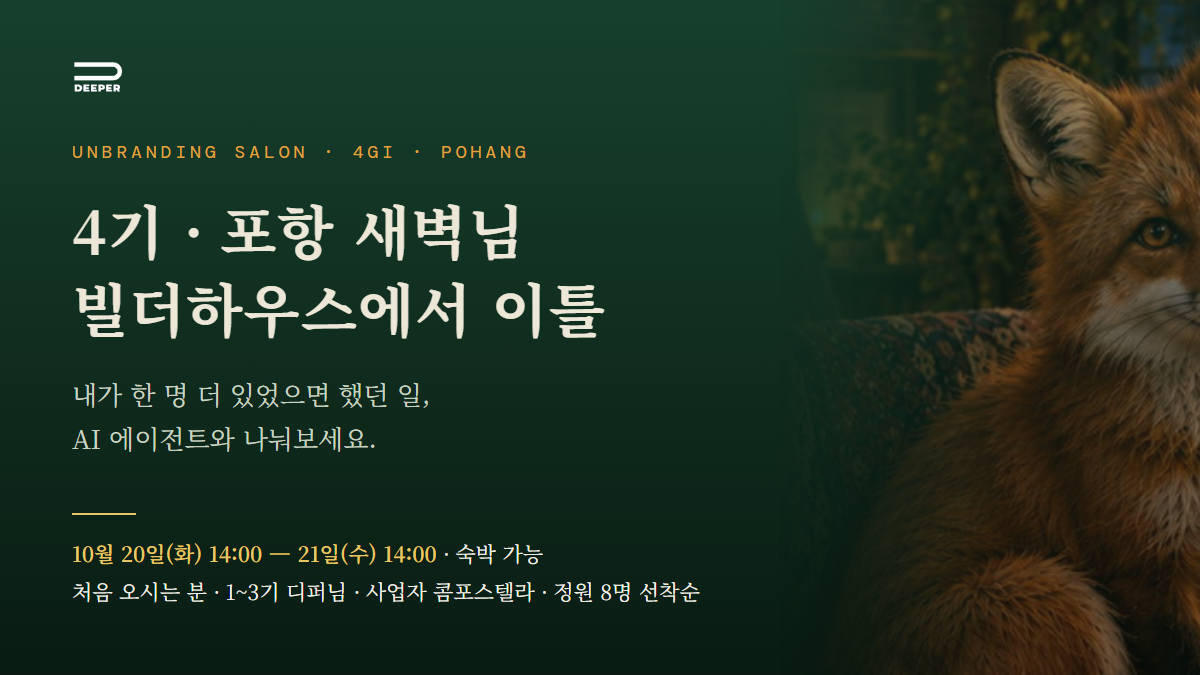
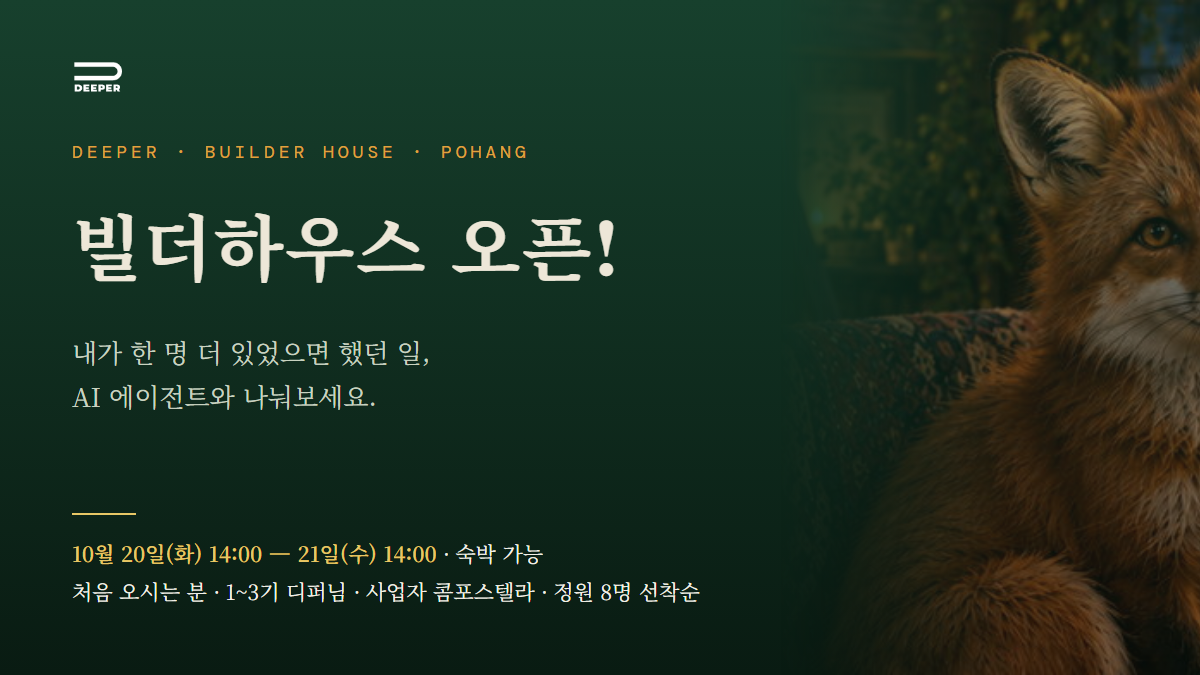
[salon] 4기 OG 카드 — 제목 「빌더하우스 오픈!」(발행인 10/13 · 4기·포항 새벽님 이틀 뺌)

Changed region(s): [[0.0617, 0.28, 0.5242, 0.6844], [0.0617, 0.2178, 0.3392, 0.2489]]

diff --git a/grammar_4gi_landing_2026-10.html b/grammar_4gi_landing_2026-10.html
@@ -6,7 +6,7 @@
 <title>4기 · 포항 새벽님 빌더하우스에서 이틀 — 디퍼 언브랜딩 살롱</title>
 <meta property="og:type" content="article">
 <meta property="og:site_name" content="DEEPER · UNBRANDING SALON">
-<meta property="og:title" content="4기 · 포항 새벽님 빌더하우스에서 이틀 · 10월 20일(화)–21일(수)">
+<meta property="og:title" content="빌더하우스 오픈! · 10월 20일(화)–21일(수) · 포항">
 <meta property="og:description" content="첫날 오후에 내 컴퓨터 안에 사막여우를 들이고, 둘째 날 아침에 세컨브레인 쓰는 법을 배웁니다. 1~3기 디퍼님의 인사이트 공유회와 함께. 정원 8명 선착순.">
 <meta property="og:url" content="https://clbookslower.github.io/deeper-salon/grammar_4gi_landing_2026-10.html">
 <meta property="og:image" content="https://clbookslower.github.io/deeper-salon/invite/og-4gi-pohang-2026-10-20.png">
